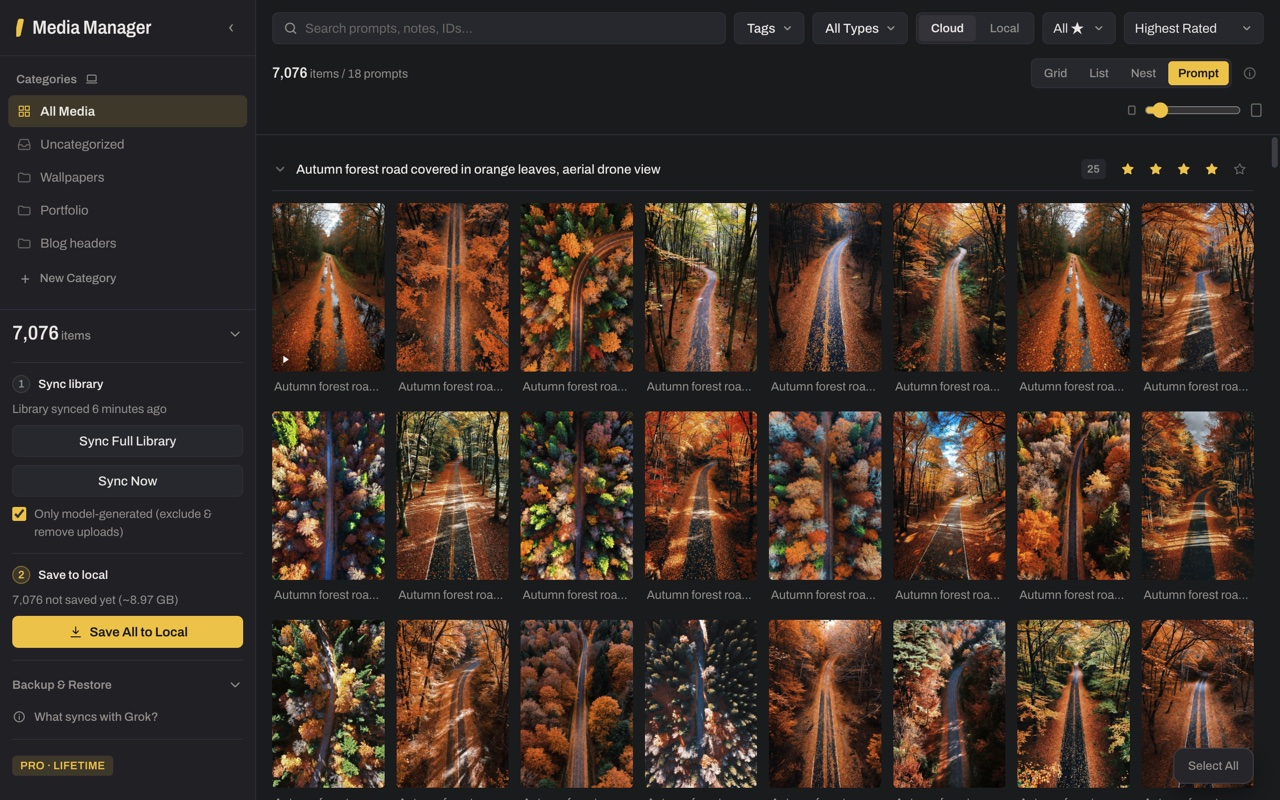
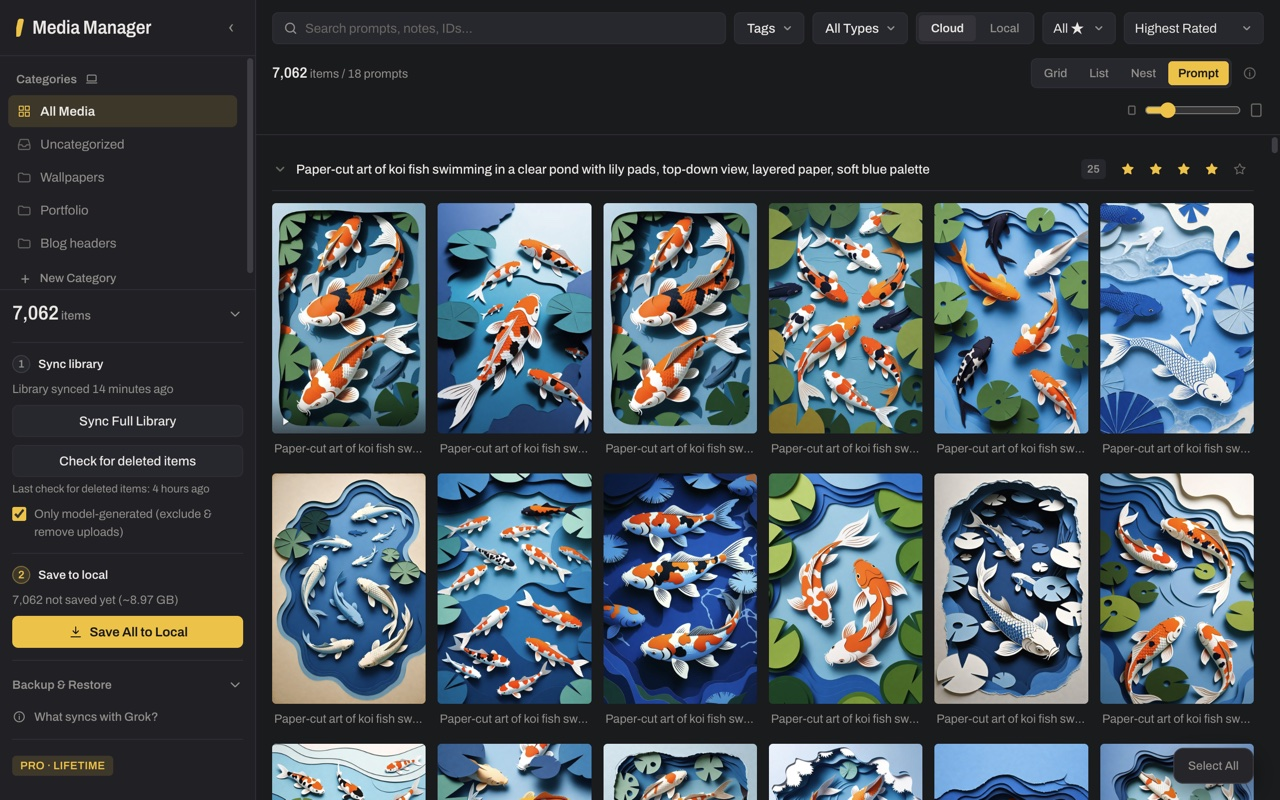
content(manager): privacy policy for Grok-account binding, Prompt and Backup re-shoots
- privacy.html: GMM 1.0.0 ties each library and each Pro license to one
  Grok account; describe the one-way code sent to the license service,
  the seat record, the daily check, the 60-day release, and the account
  check inside the grok.com tab (intro, sections 1-4, 6, 7, 10)
- Prompt view and Backup & Restore screenshots re-shot on the new
  sync UI; prompt alt updated

Claude-Session: https://claude.ai/code/session_01P4BxtphY6HtxrKxUZTCN79

diff --git a/manager/privacy.html b/manager/privacy.html
@@ -68,7 +68,7 @@
         .btn-accent:hover { background: var(--gmm-accent-deep); }
         .policy h2 { font-size: 1.25rem; font-weight: 700; color: #fff; margin-bottom: .75rem; }
         .policy h3 { font-weight: 600; color: #e2e8f0; margin: 1rem 0 .35rem; }
-        .policy p + p { margin-top: .5rem; }
+        .policy p + p, .policy ul + p { margin-top: .5rem; }
         .policy ul { list-style: disc; padding-left: 1.4rem; margin-top: .5rem; }
         .policy li + li { margin-top: .25rem; }
         .policy a { color: var(--gmm-accent); }
@@ -117,32 +117,41 @@
             <div class="bg-slate-900 border border-slate-800 rounded-2xl p-8">
                 <div class="policy space-y-8 text-slate-300 leading-relaxed">
 
-                    <p>This Privacy Policy explains how Kario LLC ("we", "us", or "our") handles information in connection with the Grok Media Manager Chrome extension ("the Extension") and its page at <a href="https://grokmedia.kario-studio.com/manager/">grokmedia.kario-studio.com/manager/</a>. The short version: your library stays on your device, the only thing the Extension sends to us is a license key when you activate Pro, and we do not track, sell or share your data.</p>
+                    <p>This Privacy Policy explains how Kario LLC ("we", "us", or "our") handles information in connection with the Grok Media Manager Chrome extension ("the Extension") and its page at <a href="https://grokmedia.kario-studio.com/manager/">grokmedia.kario-studio.com/manager/</a>. The short version: your library stays on your device; when you use Pro, the Extension sends us your license key and a one-way code that ties the license to one Grok account (never the account ID, your e-mail address or your name); and we do not track, sell or share your data.</p>
 
                     <div>
                         <h2>1. Data stored on your device only</h2>
                         <p>The Extension keeps everything it manages in your own browser and on your own disk. We cannot see any of it.</p>
                         <ul>
                             <li><strong class="text-white">IndexedDB (in Chrome):</strong> media metadata read from Grok (Grok item IDs, media URLs, prompts, model name, dimensions, file size and dates) together with the tags, categories, ratings and notes you create.</li>
-                            <li><strong class="text-white">chrome.storage:</strong> your settings, sync state and cached conversation titles.</li>
-                            <li><strong class="text-white">A folder you pick on your disk (File System Access API):</strong> media files you save with Save to Local, and metadata backups made by Backup &amp; Restore.</li>
+                            <li><strong class="text-white">chrome.storage:</strong> your settings, sync state and cached conversation titles; the Grok account your library belongs to (its Grok user ID and a masked hint such as jo&bull;&bull;&bull;th@example.com); and the state of your Pro license's seat.</li>
+                            <li><strong class="text-white">A folder you pick on your disk (File System Access API):</strong> media files you save with Save to Local, and metadata backups made by Backup &amp; Restore. A backup also records the Grok user ID and the masked hint of the library's account, so a restore can tell which Grok account the backup belongs to.</li>
                         </ul>
                     </div>
 
                     <div>
                         <h2>2. What the Extension reads from Grok, and what it writes</h2>
                         <p>Inside your own signed-in grok.com tab, the Extension reads your media lists, your tags and collections, your conversation titles and prompts, and downloads media from assets.grok.com. All of this happens between your browser and Grok; none of it is sent to us.</p>
+                        <p>Each library belongs to one Grok account: the one signed in on grok.com when you first sync. Before it syncs or writes tags, the Extension checks inside your grok.com tab which Grok account is signed in. It asks Grok's own account endpoint (<code>/rest/auth/get-user</code>) and compares Grok's <code>x-userid</code> cookie. Only the account ID and a masked hint (for example jo&bull;&bull;&bull;th@example.com, or a masked X handle or first name) leave the grok.com page; your full e-mail address and name do not. If grok.com is signed in to a different Grok account, syncs and tag changes wait until you switch back. None of this is sent to us.</p>
                         <p>The only thing the Extension writes to Grok is your tag edits: a tag you add or remove in the Extension is added to or removed from your Grok collections. Media, prompts, conversation titles, ratings, categories and notes are never written to Grok.</p>
                     </div>
 
                     <div>
                         <h2>3. The license service</h2>
-                        <p>Pro is activated and validated through our license API at <code>api.kario-studio.com</code> (previously <code>grok-media-manager-api.vercel.app</code>). The only data the Extension sends there is your license key. The reply (plan, expiry date and the purchase e-mail) is cached in <code>chrome.storage.sync</code>, which Chrome may synchronize between your own signed-in browsers. No media, prompts, tags or notes are ever sent to the license service.</p>
+                        <p>Pro is activated and validated through our license API at <code>grok-media-manager-api.vercel.app</code> (the same service as <code>api.kario-studio.com</code>). One license works with one Grok account, on any number of computers and Chrome profiles. For that, the Extension sends:</p>
+                        <ul>
+                            <li>your license key;</li>
+                            <li>a one-way code derived from the Grok account ID of your library (HMAC-SHA256, keyed with your license key). The account ID cannot be read back from it, and it is the same on every computer where you use the same Grok account;</li>
+                            <li>a label made of "Grok account" and that code's last 4 characters, which the Extension's License panel also shows, so that you and our support can name the same seat;</li>
+                            <li>the Extension's version number.</li>
+                        </ul>
+                        <p>The Extension never sends your Grok account ID, your e-mail address or your name. It checks the license once a day; that check also updates the seat's "last seen" date. The reply (plan, expiry date and the purchase e-mail) is cached in <code>chrome.storage.sync</code>, which Chrome may synchronize between your own signed-in browsers; the seat state stays in the browser profile and is not synchronized. No media, prompts, tags or notes are ever sent to the license service.</p>
+                        <p>To move your license to another Grok account, reply to your license e-mail or write to <a href="mailto:support@kario-studio.com">support@kario-studio.com</a>. A seat that has not been used for 60 days is also released when the license is next activated for another Grok account.</p>
                     </div>
 
                     <div>
                         <h2>4. Payments</h2>
-                        <p>Purchases are processed by Stripe through Stripe Checkout. Stripe collects your e-mail address and payment details; we never see your card details. Stripe's handling of your data is described in <a href="https://stripe.com/privacy" target="_blank" rel="noopener noreferrer">Stripe's privacy policy</a>. We keep the purchase e-mail and the license record so that we can validate your key and help you if you lose it.</p>
+                        <p>Purchases are processed by Stripe through Stripe Checkout. Stripe collects your e-mail address and payment details; we never see your card details. Stripe's handling of your data is described in <a href="https://stripe.com/privacy" target="_blank" rel="noopener noreferrer">Stripe's privacy policy</a>. We keep the purchase e-mail and the license record so that we can validate your key and help you if you lose it. With the license record we keep its seat: the one-way code, its label, the Extension version and the last-seen date, so that one license serves one Grok account.</p>
                     </div>
 
                     <div>
@@ -160,10 +169,10 @@
                         <h2>6. Chrome permissions and why they are needed</h2>
                         <ul>
                             <li><code>storage</code>, <code>unlimitedStorage</code>: the local library and your settings.</li>
-                            <li><code>tabs</code>, <code>scripting</code> and host access to <code>grok.com</code>, <code>*.grok.com</code> and <code>*.x.ai</code>: reading your Grok data in your own tab, and writing your tag edits there.</li>
+                            <li><code>tabs</code>, <code>scripting</code> and host access to <code>grok.com</code>, <code>*.grok.com</code> and <code>*.x.ai</code>: reading your Grok data in your own tab, checking which Grok account is signed in there, and writing your tag edits there.</li>
                             <li><code>downloads</code>: the Download feature.</li>
                             <li><code>sidePanel</code>: the side panel next to grok.com.</li>
-                            <li><code>alarms</code>: retrying tag write-backs to Grok when they fail.</li>
+                            <li><code>alarms</code>: retrying tag write-backs to Grok when they fail, and checking the Pro license once a day (the same check confirms its seat).</li>
                             <li>Host access to <code>grok-media-manager-api.vercel.app</code>, and a page script that runs only on the <code>/api/success</code> page of <code>api.kario-studio.com</code>: talking to the license service, and the one-click activation button after a purchase.</li>
                         </ul>
                     </div>
@@ -171,6 +180,7 @@
                     <div>
                         <h2>7. Removing your data</h2>
                         <p>Uninstalling the Extension deletes its IndexedDB database and its chrome.storage data. Media files and backups you saved to your own folder are ordinary files on your disk; they stay there until you delete them.</p>
+                        <p>Uninstalling does not delete the seat record kept with your license on our license service. It is deleted when our support releases it at your request, or when, after 60 days without use, the license is activated for another Grok account.</p>
                     </div>
 
                     <div>
@@ -187,6 +197,7 @@
                         <h2>10. Contact</h2>
                         <p>Questions about this policy or about your data:</p>
                         <ul>
+                            <li>E-mail: <a href="mailto:support@kario-studio.com">support@kario-studio.com</a> (also for moving a license to another Grok account)</li>
                             <li>Website: <a href="https://grokmedia.kario-studio.com/manager/">grokmedia.kario-studio.com/manager/</a></li>
                             <li>Kario Studio: <a href="https://www.kario-studio.com" target="_blank" rel="noopener noreferrer">www.kario-studio.com</a></li>
                         </ul>

diff --git a/manager/index.html b/manager/index.html
@@ -299,7 +299,7 @@
                 </figure>
                 <figure data-shot>
                     <button type="button" class="shot-btn" aria-haspopup="dialog" aria-label="Enlarge: Prompt view">
-                        <img src="/assets/manager/prompt-1280.jpg" data-full="/assets/manager/prompt-2560.jpg" width="1280" height="800" loading="lazy" decoding="async" alt="Prompt view: 18 prompts as collapsible groups, the first one open and showing 25 autumn forest images generated from it, with a rating for the whole group.">
+                        <img src="/assets/manager/prompt-1280.jpg" data-full="/assets/manager/prompt-2560.jpg" width="1280" height="800" loading="lazy" decoding="async" alt="Prompt view: 18 prompts as collapsible groups, the first one open and showing 25 paper-cut koi images generated from it, with a rating for the whole group.">
                         <span class="shot-zoom" aria-hidden="true"><i data-lucide="maximize-2" class="w-3.5 h-3.5"></i>Enlarge</span>
                     </button>
                     <figcaption class="mt-4">
